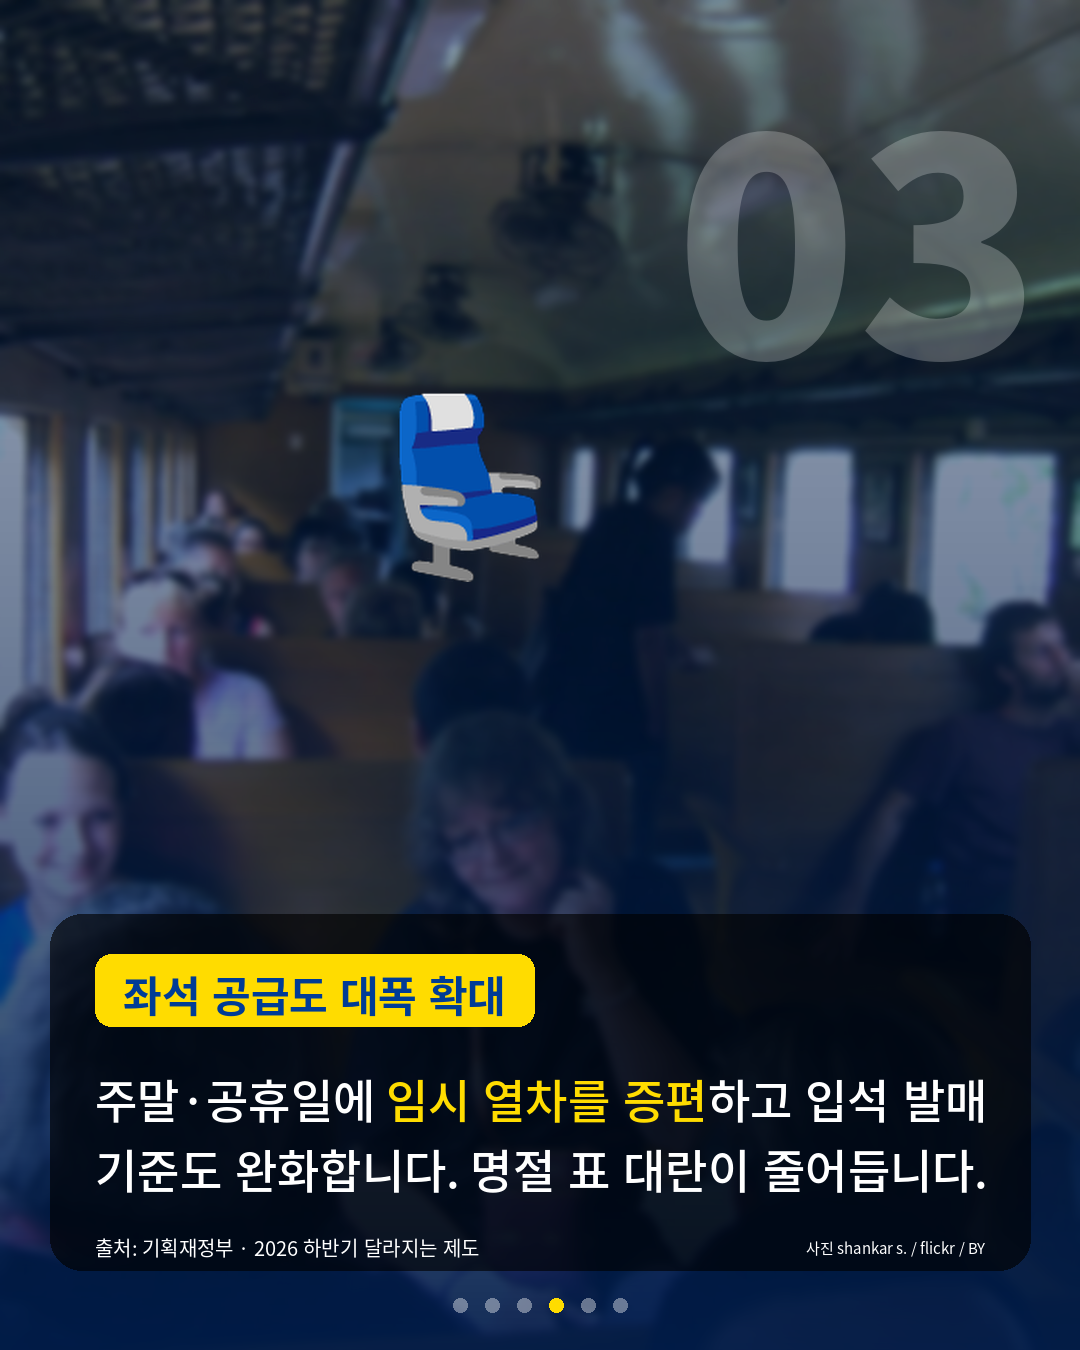
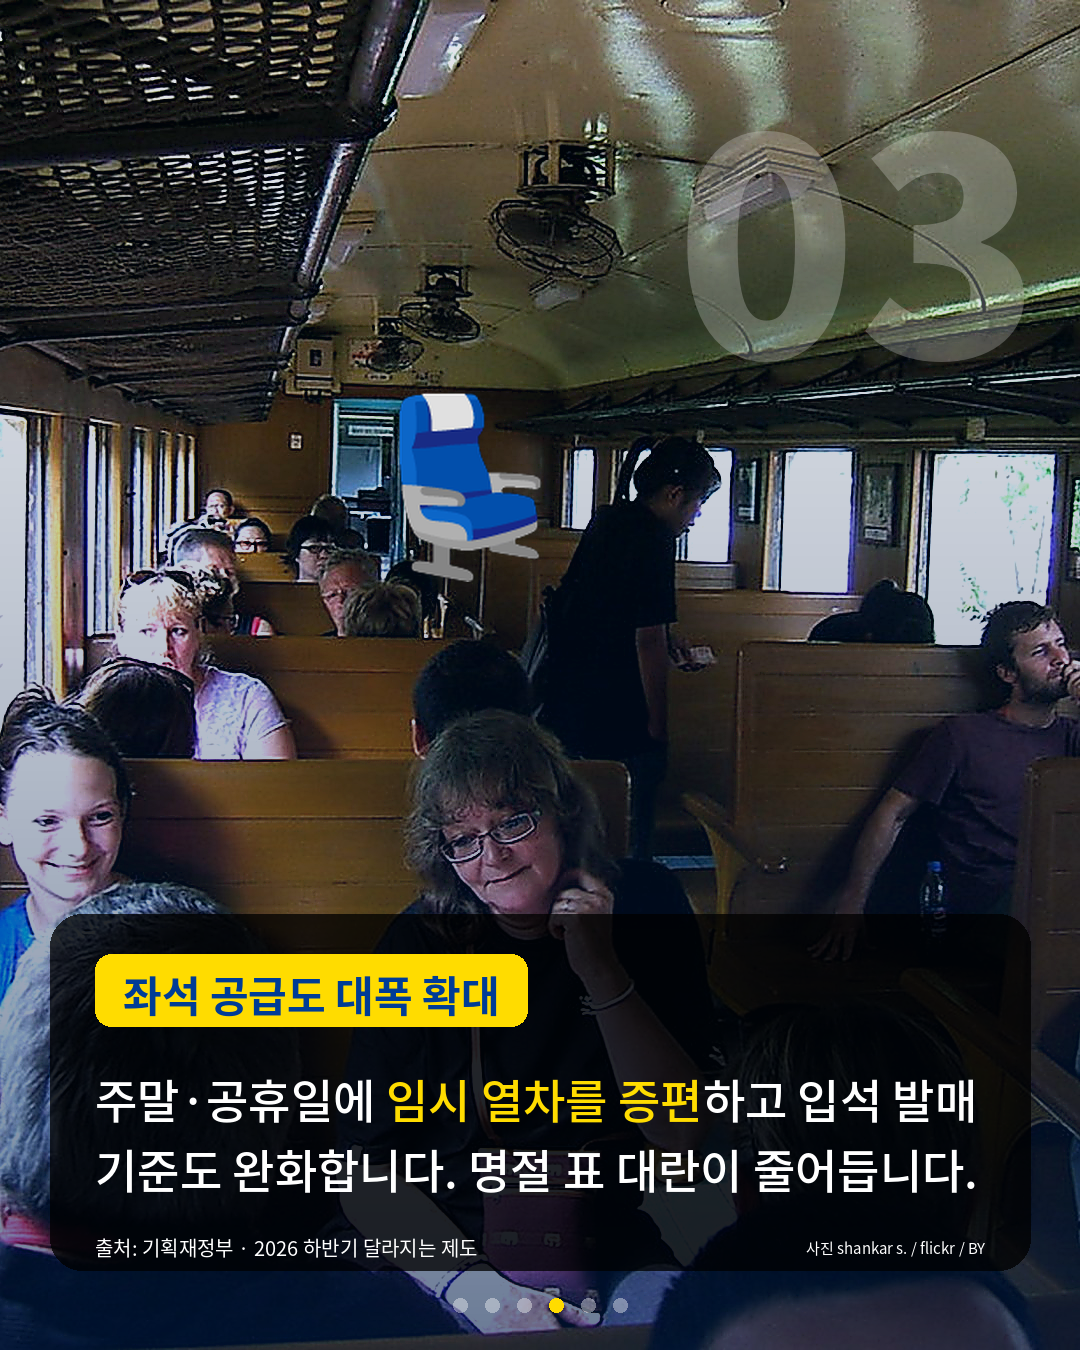
배경 사진을 선명하게
본문 글자는 어차피 아래 카드 안에 들어가는데도 사진 전체에 블러와 짙은
농도를 걸고 있었다. 사진을 가릴 이유가 없어 걷어낸다.

- 본문 슬라이드 블러 4 → 0, 농도 상단 105→30 / 하단 238→150
- 커버 농도 상단 85→30 / 하단 235→190
- 언샤프 마스크 추가. 무료 소스는 해상도가 낮아 1080x1350으로 확대하면
  물러지는데, 윤곽을 살려 선명하게 보이게 한다
- 대비·선명도 보정 상향, 채도는 1.12로 (1.25는 일부 사진이 누렇게 떴다)
- 배경이 밝아진 만큼 본문 카드 농도를 165→195로 올려 글자 대비 유지
- 커버 제목은 사진 위에 바로 놓이므로, 부드러운 그림자 레이어 + 검정
  외곽선을 둬 밝은 배경이나 포인트 컬러와 색이 겹쳐도 묻히지 않게 함

Claude-Session: https://claude.ai/code/session_01W4yCPYAiRNGdqbEFr8kcA6

diff --git a/cardnews.py b/cardnews.py
@@ -217,10 +217,15 @@ def photo_bg(path, t, darken_top=70, darken_bottom=215, blur=0):
 
     if blur:
         im = im.filter(ImageFilter.GaussianBlur(blur))
+    else:
+        # 무료 소스는 해상도가 낮아 1080x1350으로 확대하면 물러진다.
+        # 언샤프 마스크로 윤곽을 살려 선명하게 보이게 한다.
+        im = im.filter(ImageFilter.UnsharpMask(radius=2, percent=125, threshold=3))
 
-    # 살짝 채도를 올려 색을 또렷하게
-    im = ImageEnhance.Color(im).enhance(1.15)
-    im = ImageEnhance.Contrast(im).enhance(1.05)
+    # 채도·대비를 올려 색을 또렷하게
+    im = ImageEnhance.Color(im).enhance(1.12)
+    im = ImageEnhance.Contrast(im).enhance(1.12)
+    im = ImageEnhance.Sharpness(im).enhance(1.3)
 
     # 세로 어두움 그래디언트 (위는 약하게, 아래로 갈수록 강하게)
     xs = np.linspace(0.0, 1.0, H)
@@ -375,8 +380,9 @@ def draw_big_emoji(draw, emoji, cx, cy, size):
 # ── 커버 ────────────────────────
 def make_cover(sc, t, photo=None, credit=None):
     if photo:
-        # 커버는 사진을 가장 잘 보여주는 자리 — 블러 없이, 아래만 진하게
-        img = photo_bg(photo, t, darken_top=85, darken_bottom=235)
+        # 커버는 사진을 가장 잘 보여주는 자리. 전체를 어둡게 덮는 대신
+        # 제목에 부드러운 그림자를 깔아 대비를 확보한다 (아래 shadow 레이어)
+        img = photo_bg(photo, t, darken_top=30, darken_bottom=190)
     else:
         img = gradient_bg_diagonal(t["grad1"], t["grad2"])
         layer, ld = overlay_layer()
@@ -403,17 +409,33 @@ def make_cover(sc, t, photo=None, credit=None):
         d.text((bx+28, by+9), cat, font=tf, fill=t["tag_fg"])
 
     # 메인 타이틀 — 매우 큰 텍스트
-    y = 480
+    # 사진을 밝게 두기 위해, 전체 농도를 올리는 대신 글자 뒤에만
+    # 부드러운 그림자를 깔아 어떤 배경에서도 읽히게 한다.
     tf_big = font(FONT_BLACK, 94)
+    title_y = 480
+    placed = []
     for line in lines:
         clean = line.replace("<r>","").replace("</r>","").replace("<y>","").replace("</y>","")
         is_acc = "<r>" in line or "<y>" in line
         bb = d.textbbox((0,0), clean, font=tf_big)
-        x = (W-(bb[2]-bb[0]))//2
-        color = t["accent"] if is_acc else WHITE
-        d.text((x+3, y+4), clean, font=tf_big, fill=(0, 0, 0, 90))
-        d.text((x, y), clean, font=tf_big, fill=color)
-        y += 116
+        placed.append(((W-(bb[2]-bb[0]))//2, title_y, clean, is_acc))
+        title_y += 116
+
+    if photo:
+        sh = Image.new("RGBA", (W, H), (0, 0, 0, 0))
+        sd = ImageDraw.Draw(sh)
+        for x, yy, clean, _ in placed:
+            sd.text((x, yy + 6), clean, font=tf_big, fill=(0, 0, 0, 190))
+        sh = sh.filter(ImageFilter.GaussianBlur(14))
+        img = composite(img, sh)
+        d = ImageDraw.Draw(img, "RGBA")
+
+    # 외곽선: 사진이 밝거나 포인트 컬러와 색이 겹쳐도 글자가 묻히지 않게 한다
+    stroke = dict(stroke_width=5, stroke_fill=(0, 0, 0)) if photo else {}
+    for x, yy, clean, is_acc in placed:
+        d.text((x, yy), clean, font=tf_big,
+               fill=t["accent"] if is_acc else WHITE, **stroke)
+    y = title_y
 
     # 부제
     sub = sc.get("title", "")
@@ -455,8 +477,9 @@ def make_scene(sc, idx, total, t, photo=None, credit=None):
     scene = sc["scenes"][idx]
 
     if photo:
-        # 본문은 글이 주인공 — 배경을 살짝 흐려 텍스트 대비를 확보
-        img = photo_bg(photo, t, darken_top=105, darken_bottom=238, blur=4)
+        # 본문 글자는 아래 카드 안에 들어가므로 사진 자체는 어둡게 할 이유가 없다.
+        # 블러를 빼고 농도를 낮춰 사진이 선명하게 보이게 한다.
+        img = photo_bg(photo, t, darken_top=30, darken_bottom=150, blur=0)
     else:
         # 슬라이드마다 색조를 살짝 변형
         r = random.Random(idx * 31 + 7)
@@ -502,8 +525,8 @@ def make_scene(sc, idx, total, t, photo=None, credit=None):
     ld.text((W - (nb[2]-nb[0]) - 40, 10), num, font=nf,
             fill=(255, 255, 255, 60 if photo else 46))
 
-    # 사진 위에서는 카드를 더 진하게 깔아 본문 대비를 확보
-    card_alpha = 165 if photo else 115
+    # 배경을 밝게 둔 만큼 카드는 더 진하게 깔아 본문 대비를 지킨다
+    card_alpha = 195 if photo else 115
     rounded_rect(ld, (card_margin, card_y, W-card_margin, card_bottom), 32, (0, 0, 0, card_alpha))
     img = composite(img, layer)
 
